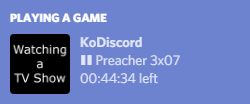
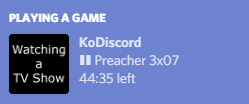
Removed hour from remaining time display when paused and time is less than an hour.

diff --git a/app.py b/app.py
@@ -60,9 +60,11 @@ class App:
                 end = play_info['end_time']
             else:
                 icon = self.pause_icon
-                state = '{time_remaining} left'.format(icon=icon, time_remaining=time.strftime('%H:%M:%S', time.gmtime(
-                    remaining_time.seconds
-                )))
+                if remaining_time.seconds > 3600:
+                    time_remaining = time.strftime('%H:%M:%S', time.gmtime(remaining_time.seconds))
+                else:
+                    time_remaining = time.strftime('%M:%S', time.gmtime(remaining_time.seconds))
+                state = '{time_remaining} left'.format(icon=icon, time_remaining=time_remaining)
                 end = None
             discord.update_status(details='{icon} {title}'.format(icon=icon, **play_info),
                                   large_image=play_info['type'],
